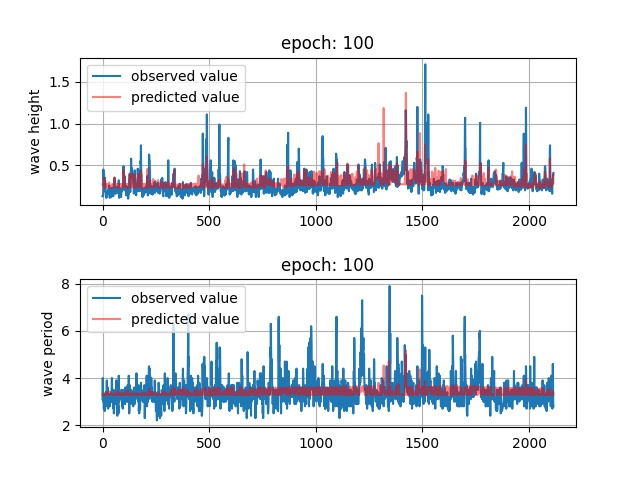
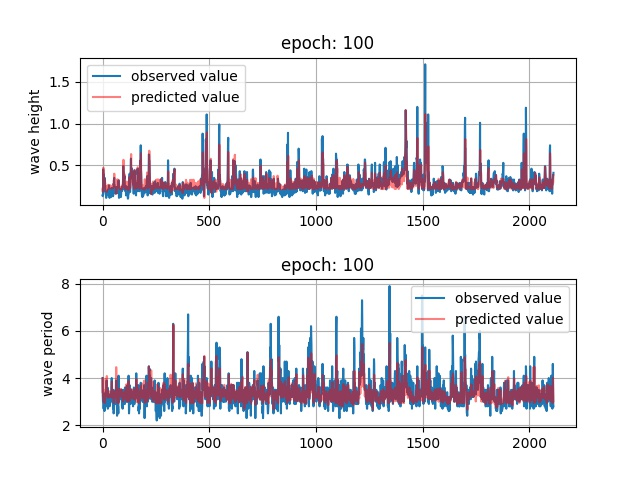
１時間前の波高と波長から現在の波高と波長を予測

diff --git a/nnwf/datasets/nnwfDataset.py b/nnwf/datasets/nnwfDataset.py
@@ -18,6 +18,9 @@ class NNWFDataset(IterableDataset):
         self.len = len(ndarray_full_record)
         self.__normalize = Custom_transform(ndarray_full_record).normalize()
 
+        self.__wave_height = None
+        self.__wave_period = None
+
     def __get_selected_record(self):
         return self.db.cursor().execute(self.__query)
     
@@ -30,11 +33,14 @@ class NNWFDataset(IterableDataset):
 
     def __get_ndarray_record(self):
         selected_record = self.__get_selected_record().fetchall()
-        ndarrary_record = np.array(selected_record, dtype=np.float32)[:, :-2]
+        ndarrary_record = np.array(selected_record, dtype=np.float32)
         return ndarrary_record
 
     def __iter__(self): 
         self.__selected_record = self.__get_selected_record()
+        one_record = self.__selected_record.fetchone()
+        self.__wave_height = one_record[-2]
+        self.__wave_period = one_record[-1]
         self.__iterable_buffer = self.__get_record_iterator(self.__selected_record)
         return self
 
@@ -45,8 +51,11 @@ class NNWFDataset(IterableDataset):
             self.__iterable_buffer = self.__get_record_iterator(self.__selected_record)
             record = torch.FloatTensor(next(self.__iterable_buffer))
 
-        data = self.__normalize(record[:-2])
+        data = torch.cat((record[:-2], torch.Tensor([self.__wave_height, self.__wave_period])))
+        data = self.__normalize(data)
         label = record[-2:]
+        self.__wave_height = label[0]
+        self.__wave_period = label[1]
         return data, label
 
     def __len__(self):

diff --git a/nnwf/nets/net01.py b/nnwf/nets/net01.py
@@ -5,7 +5,7 @@ class NNWF_Net01(nn.Module):
     def __init__(self):
         super(NNWF_Net01, self).__init__()
         self.linearSequential = nn.Sequential(
-            nn.Linear(3,128),
+            nn.Linear(5,128),
             nn.ReLU(),
             nn.Linear(128,64),
             nn.ReLU(),
